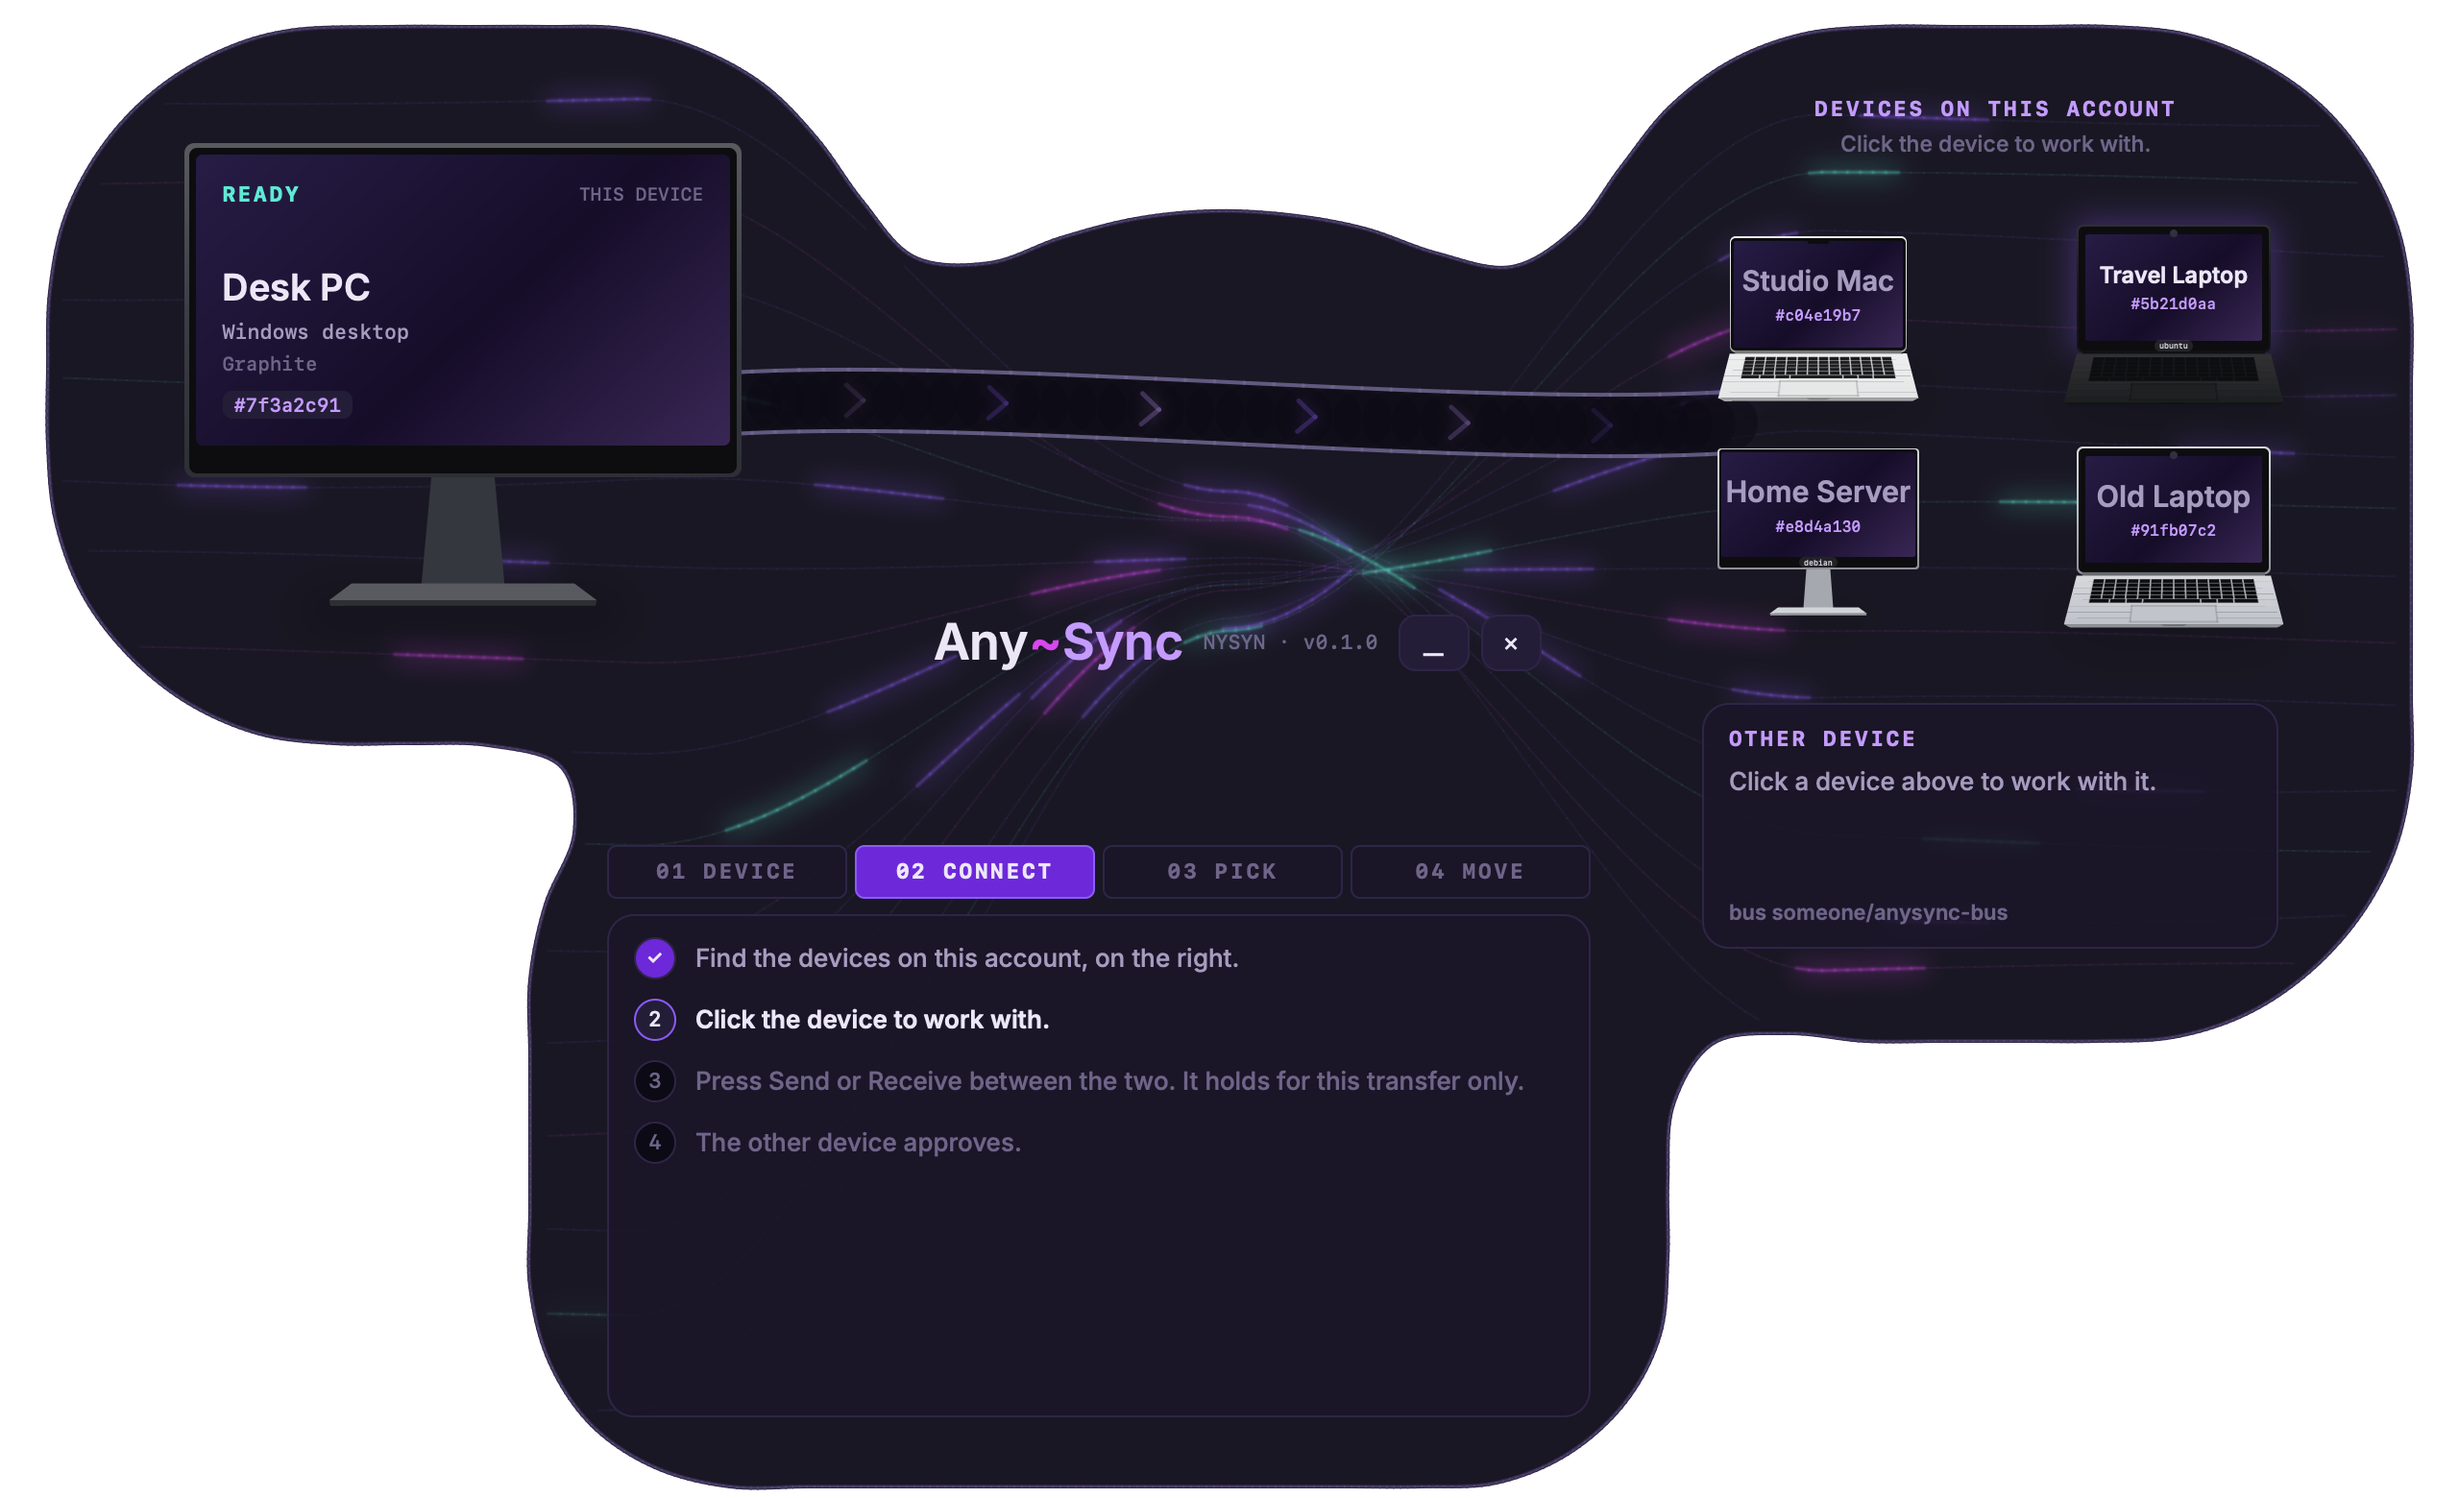
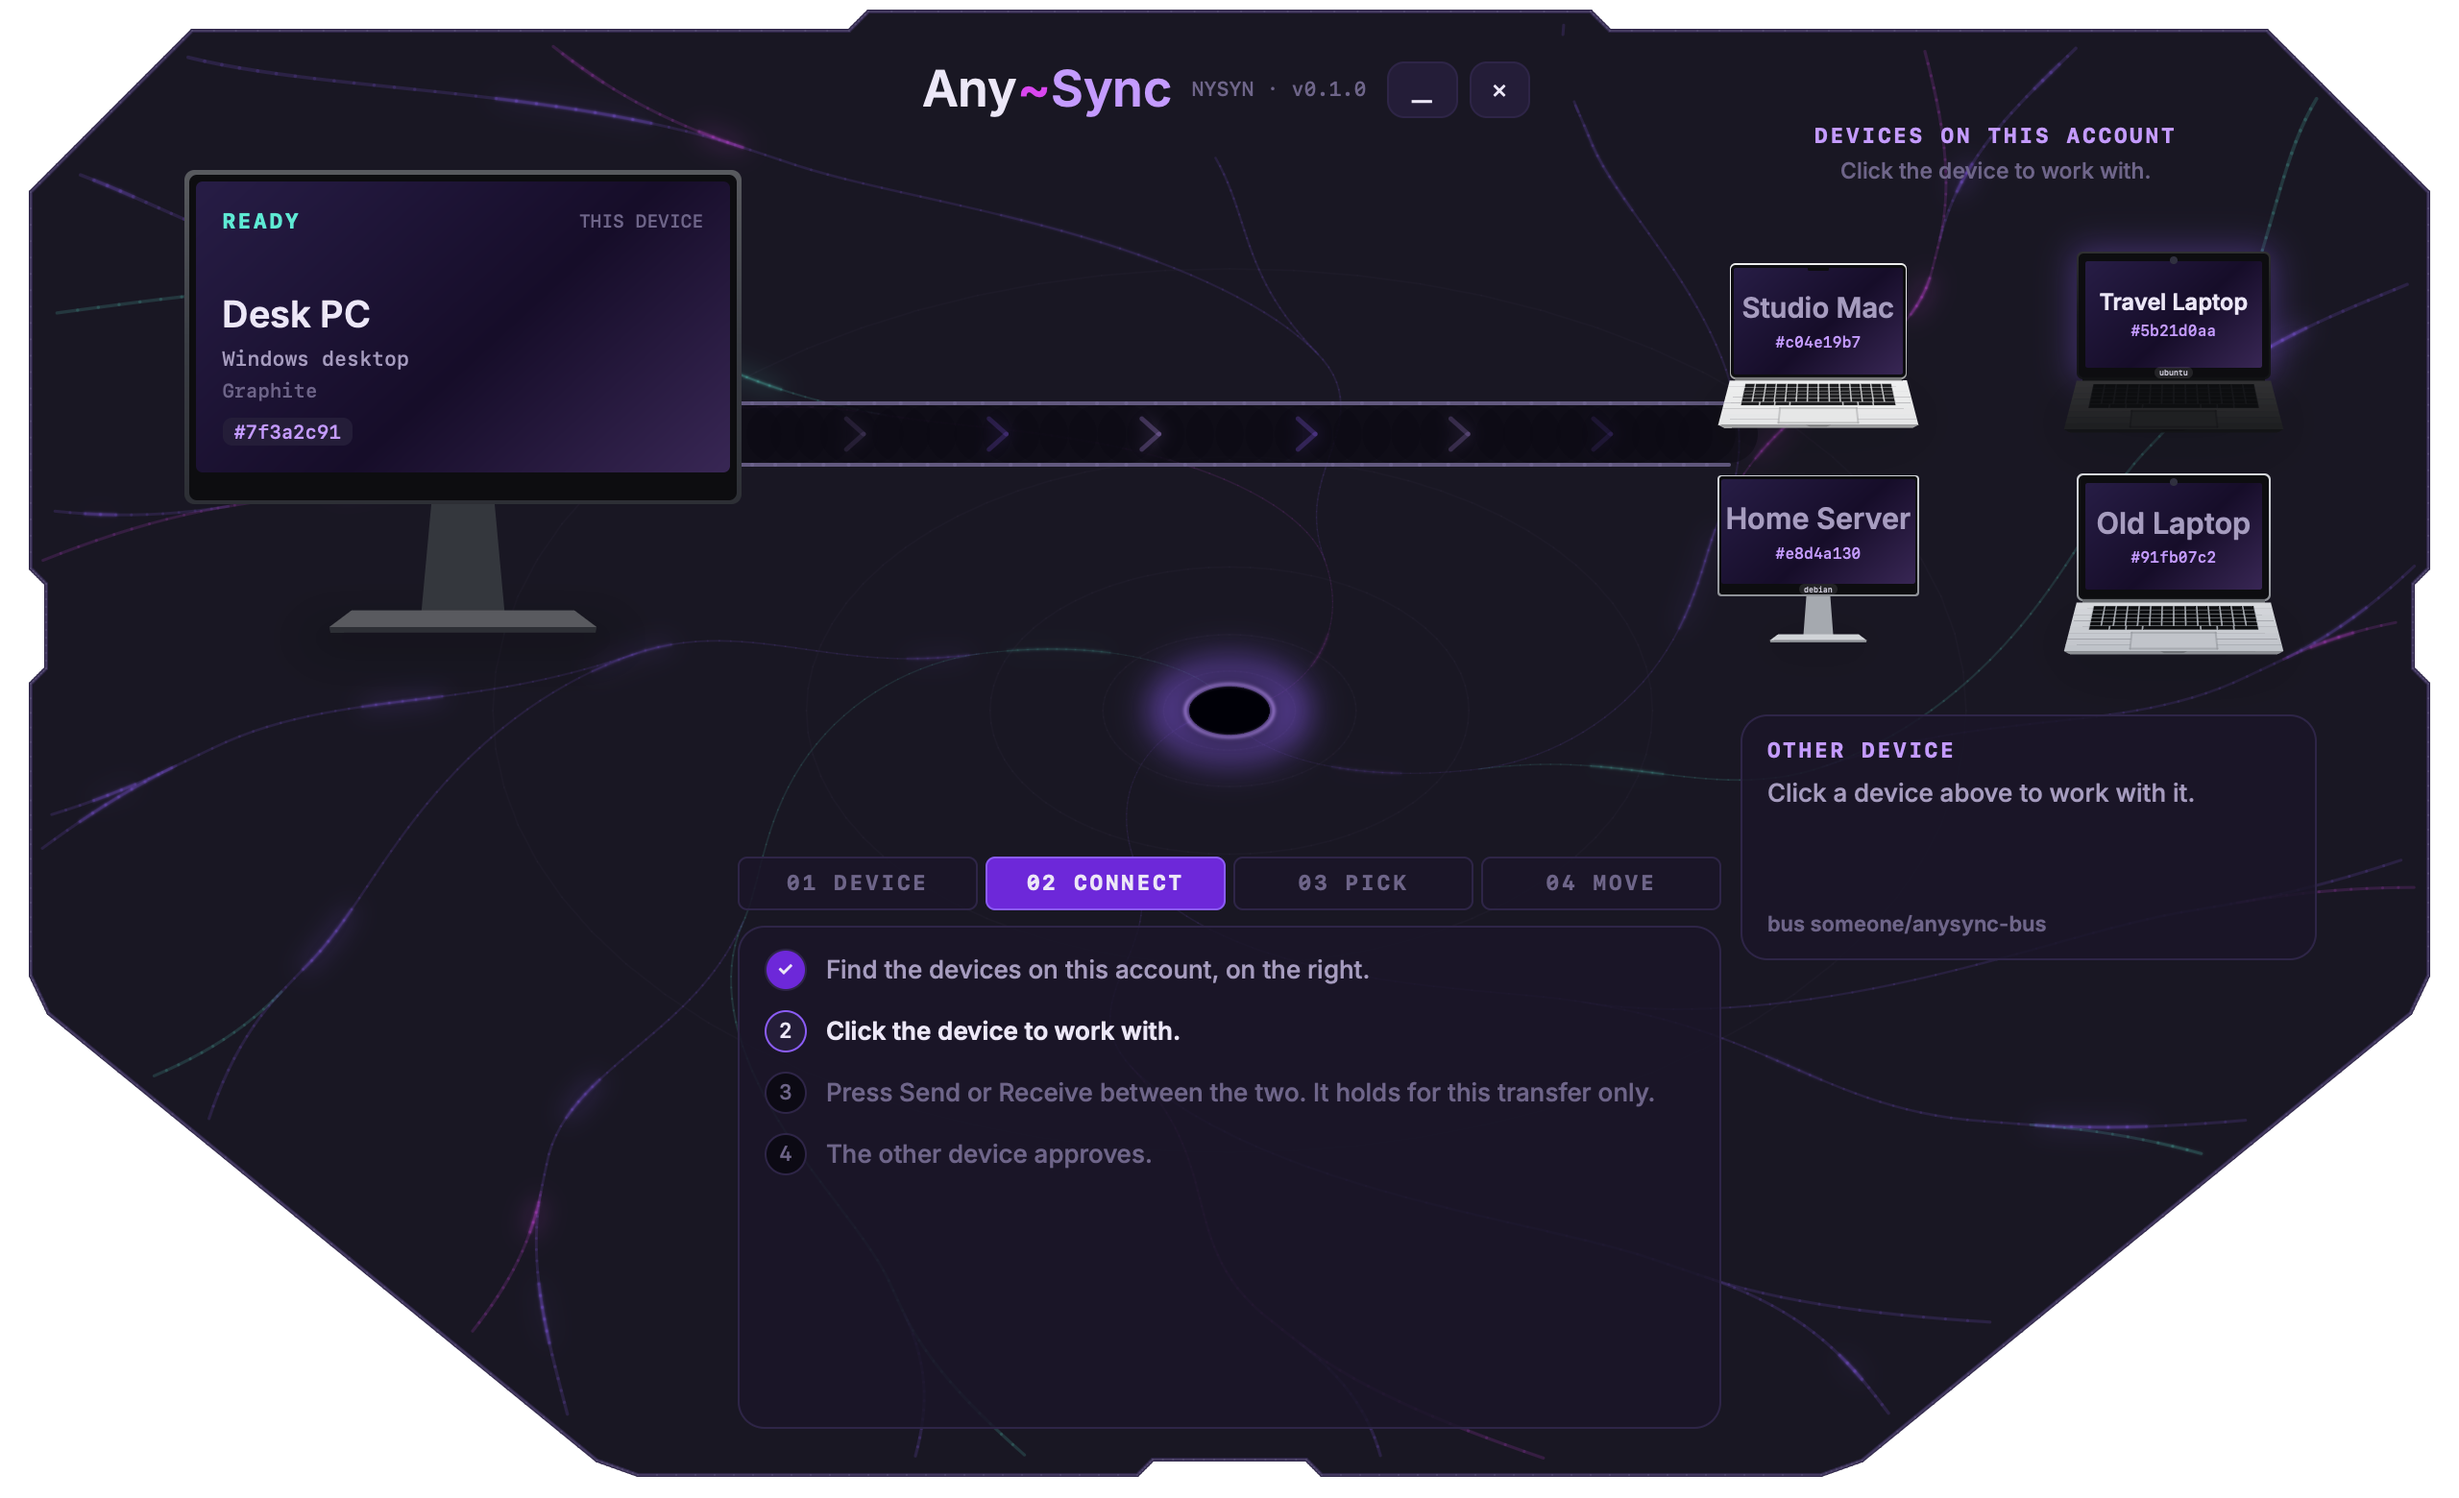
Site: the app renders after the fix pass

diff --git a/site/tr/changelog/index.html b/site/tr/changelog/index.html
@@ -56,7 +56,7 @@
     <div class="release reveal">
       <h2>0.1.0</h2>
       <span class="date">yapım aşamasında</span>
-      <ul><li>macOS, Windows ve Linux için cihaz kimliği: bir kimlik, bir ad, bir görünüm ve bir anahtar çifti.</li><li>Bus olarak özel bir GitHub deposu: cihazlar, istekler ve aktarımlar; özel olan her şey mühürlü.</li><li>Öğe kataloğu: her öğe her sistemdeki yoluyla; alan tarafta adına göre yerleşir.</li><li>Gönderende yapılan kurulu araç listeleri: Homebrew, winget, Scoop, apt, dnf, pacman, Flatpak, Snap, npm, cargo, pipx ve editör eklentileri.</li><li>Kopunca kaldığı yerden süren, şifreli cihazdan cihaza akış.</li><li>Komut satırı: <code>--scan</code>, <code>--give</code>, <code>--accept</code>, <code>--id</code>.</li><li>Pencere: Cihaz, Bağlan, Seç ve Taşı; her sistem için cihaz görünümleriyle.</li><li>Ajanın için GOAL.md; Mac'te ayrıca Apple'ın komut satırı araçları, Homebrew ve Node için bir hazırlık betiği.</li><li>CI, Windows ve Linux'ta test eder ve derler.</li></ul>
+      <ul><li>macOS, Windows ve Linux için cihaz kimliği: bir kimlik, bir ad, bir görünüm ve bir anahtar çifti.</li><li>Bus olarak özel bir GitHub deposu: cihazlar, istekler ve aktarımlar; özel olan her şey mühürlü.</li><li>Öğe kataloğu: her öğe her sistemdeki yoluyla; alan tarafta adına göre yerleşir.</li><li>Gönderende yapılan kurulu araç listeleri: Homebrew, winget, Scoop, apt, dnf, pacman, Flatpak, Snap, npm, cargo, pipx ve editör eklentileri.</li><li>Kopunca kaldığı yerden süren, şifreli cihazdan cihaza akış.</li><li>Komut satırı: <code>--scan</code>, <code>--give</code>, <code>--accept</code>, <code>--id</code>.</li><li>Pencere: Cihaz, Bağlan, Seç ve Taşı; her sistem için cihaz görünümleriyle, arka plan çizgileri ortadaki bir girdaba düşen simetrik, köşeli bir çerçevede.</li><li>Ajanın için GOAL.md; Mac'te ayrıca Apple'ın komut satırı araçları, Homebrew ve Node için bir hazırlık betiği.</li><li>CI, Windows ve Linux'ta test eder ve derler.</li></ul>
     </div>
   </div>
 </section>

diff --git a/site/changelog/index.html b/site/changelog/index.html
@@ -56,7 +56,7 @@
     <div class="release reveal">
       <h2>0.1.0</h2>
       <span class="date">in progress</span>
-      <ul><li>Device identity for macOS, Windows and Linux: an id, a name, a look and a key pair.</li><li>A private GitHub repo as the bus: devices, requests and transfers, with anything private sealed.</li><li>The item catalogue: every item with its path on each system, placed by name on the receiver.</li><li>Lists of installed tools made on the sender: Homebrew, winget, Scoop, apt, dnf, pacman, Flatpak, Snap, npm, cargo, pipx and editor extensions.</li><li>The encrypted device to device stream, resuming after a cut.</li><li>The command line: <code>--scan</code>, <code>--give</code>, <code>--accept</code>, <code>--id</code>.</li><li>The window: Device, Connect, Pick and Move, with device looks for each system.</li><li>GOAL.md for your agent, and on a Mac a preflight script for Apple's command line tools, Homebrew and Node.</li><li>CI tests and builds on Windows and Linux.</li></ul>
+      <ul><li>Device identity for macOS, Windows and Linux: an id, a name, a look and a key pair.</li><li>A private GitHub repo as the bus: devices, requests and transfers, with anything private sealed.</li><li>The item catalogue: every item with its path on each system, placed by name on the receiver.</li><li>Lists of installed tools made on the sender: Homebrew, winget, Scoop, apt, dnf, pacman, Flatpak, Snap, npm, cargo, pipx and editor extensions.</li><li>The encrypted device to device stream, resuming after a cut.</li><li>The command line: <code>--scan</code>, <code>--give</code>, <code>--accept</code>, <code>--id</code>.</li><li>The window: Device, Connect, Pick and Move, with device looks for each system, in a symmetric angular frame whose background lines fall into a vortex at its centre.</li><li>GOAL.md for your agent, and on a Mac a preflight script for Apple's command line tools, Homebrew and Node.</li><li>CI tests and builds on Windows and Linux.</li></ul>
     </div>
   </div>
 </section>
